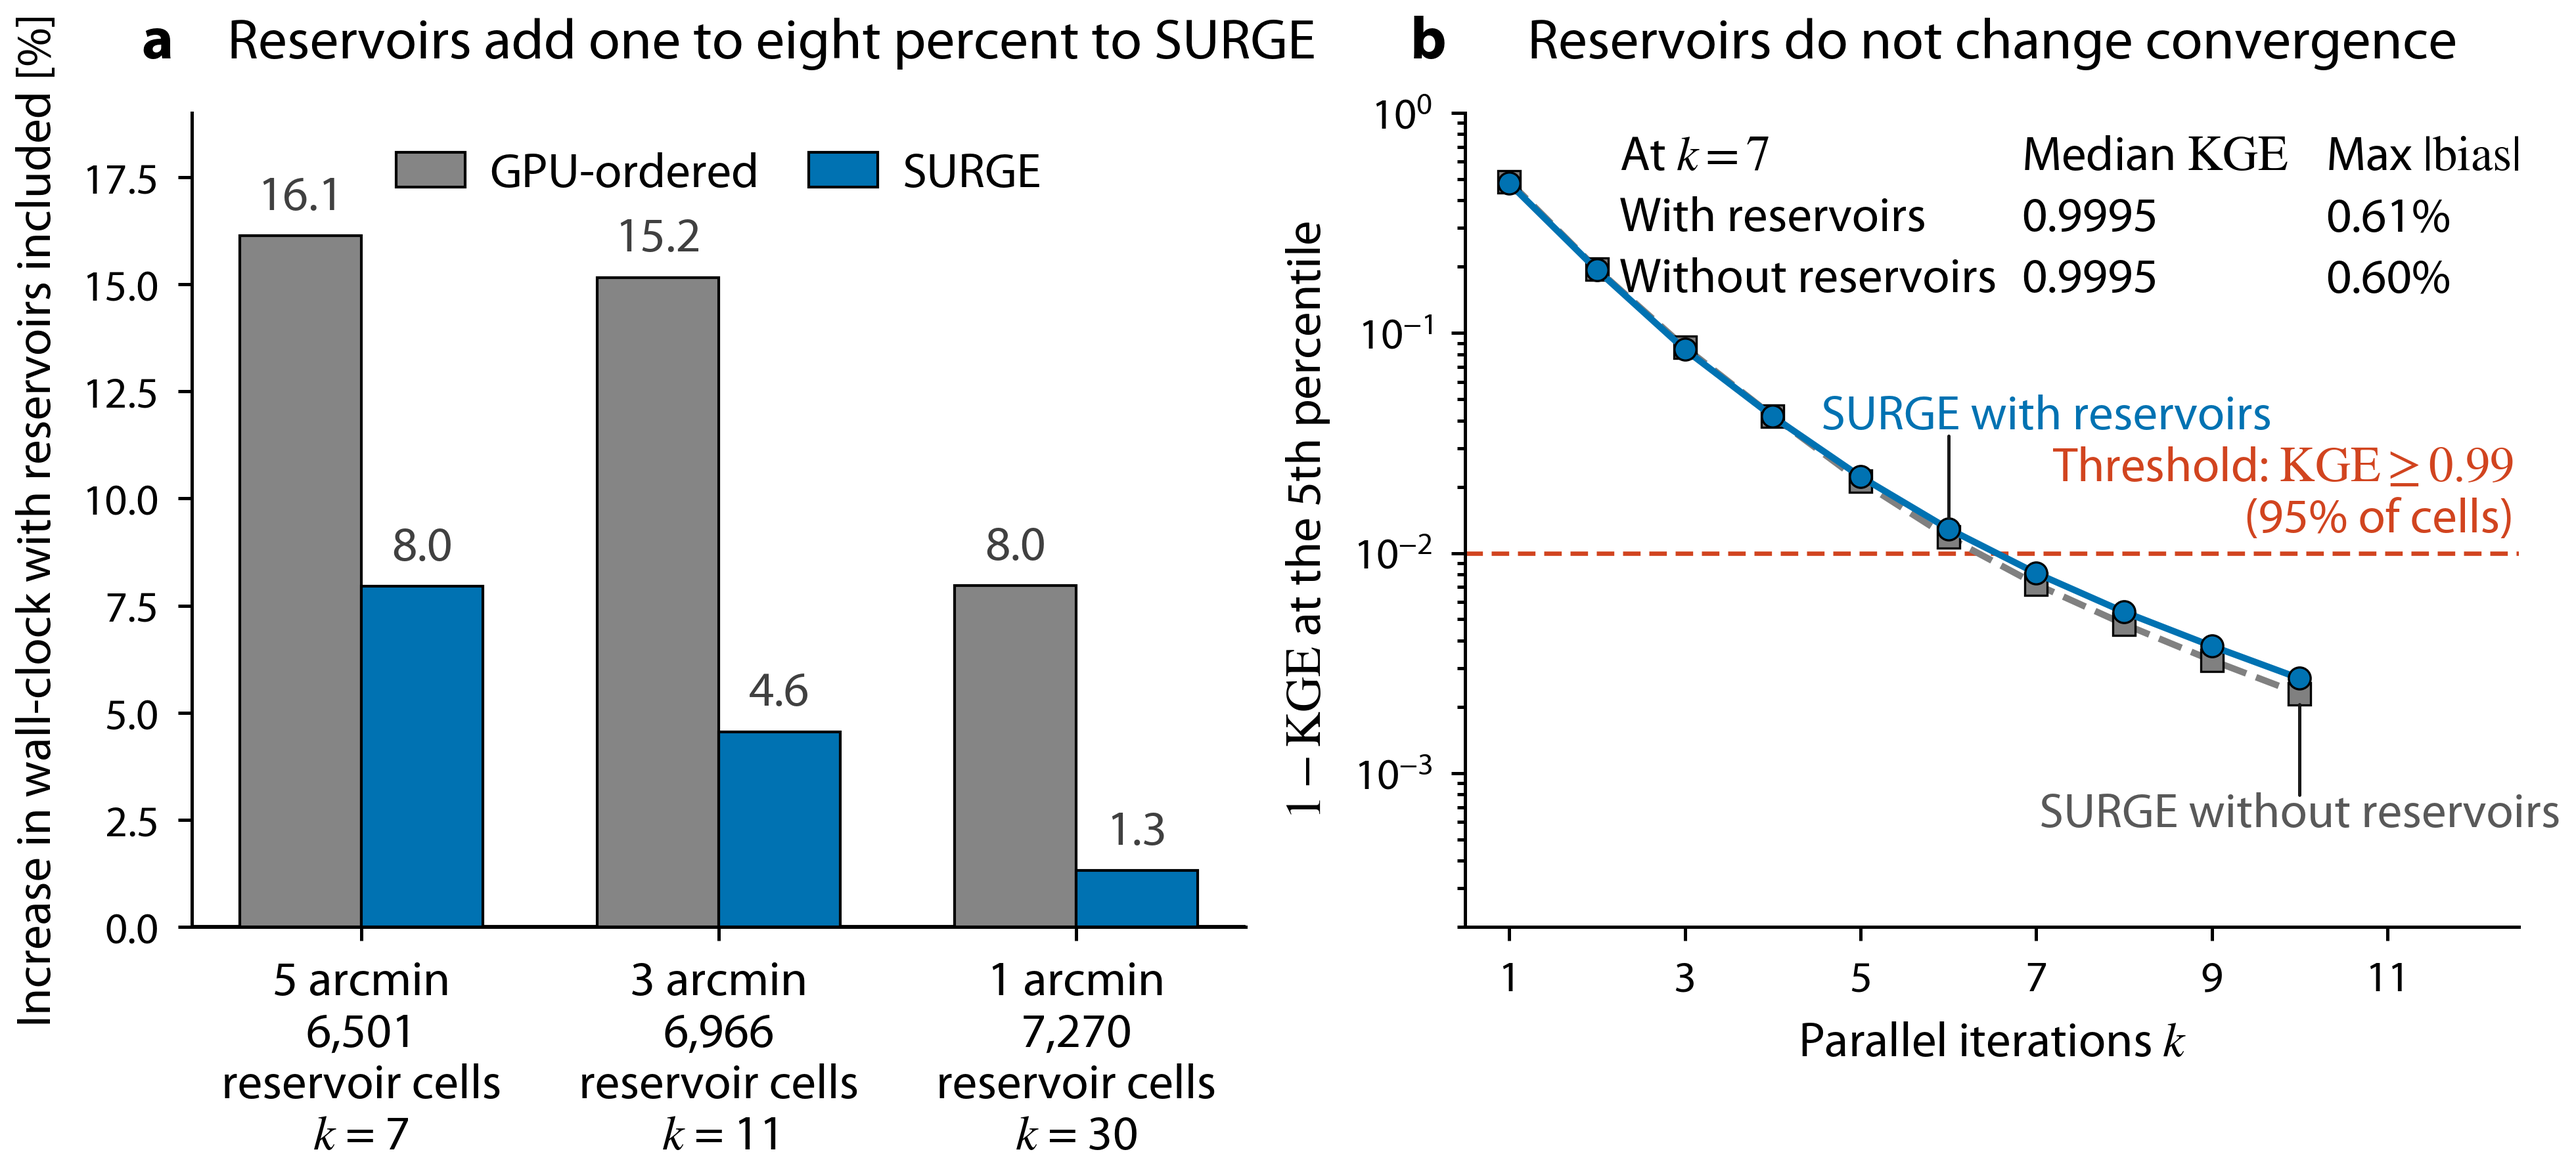
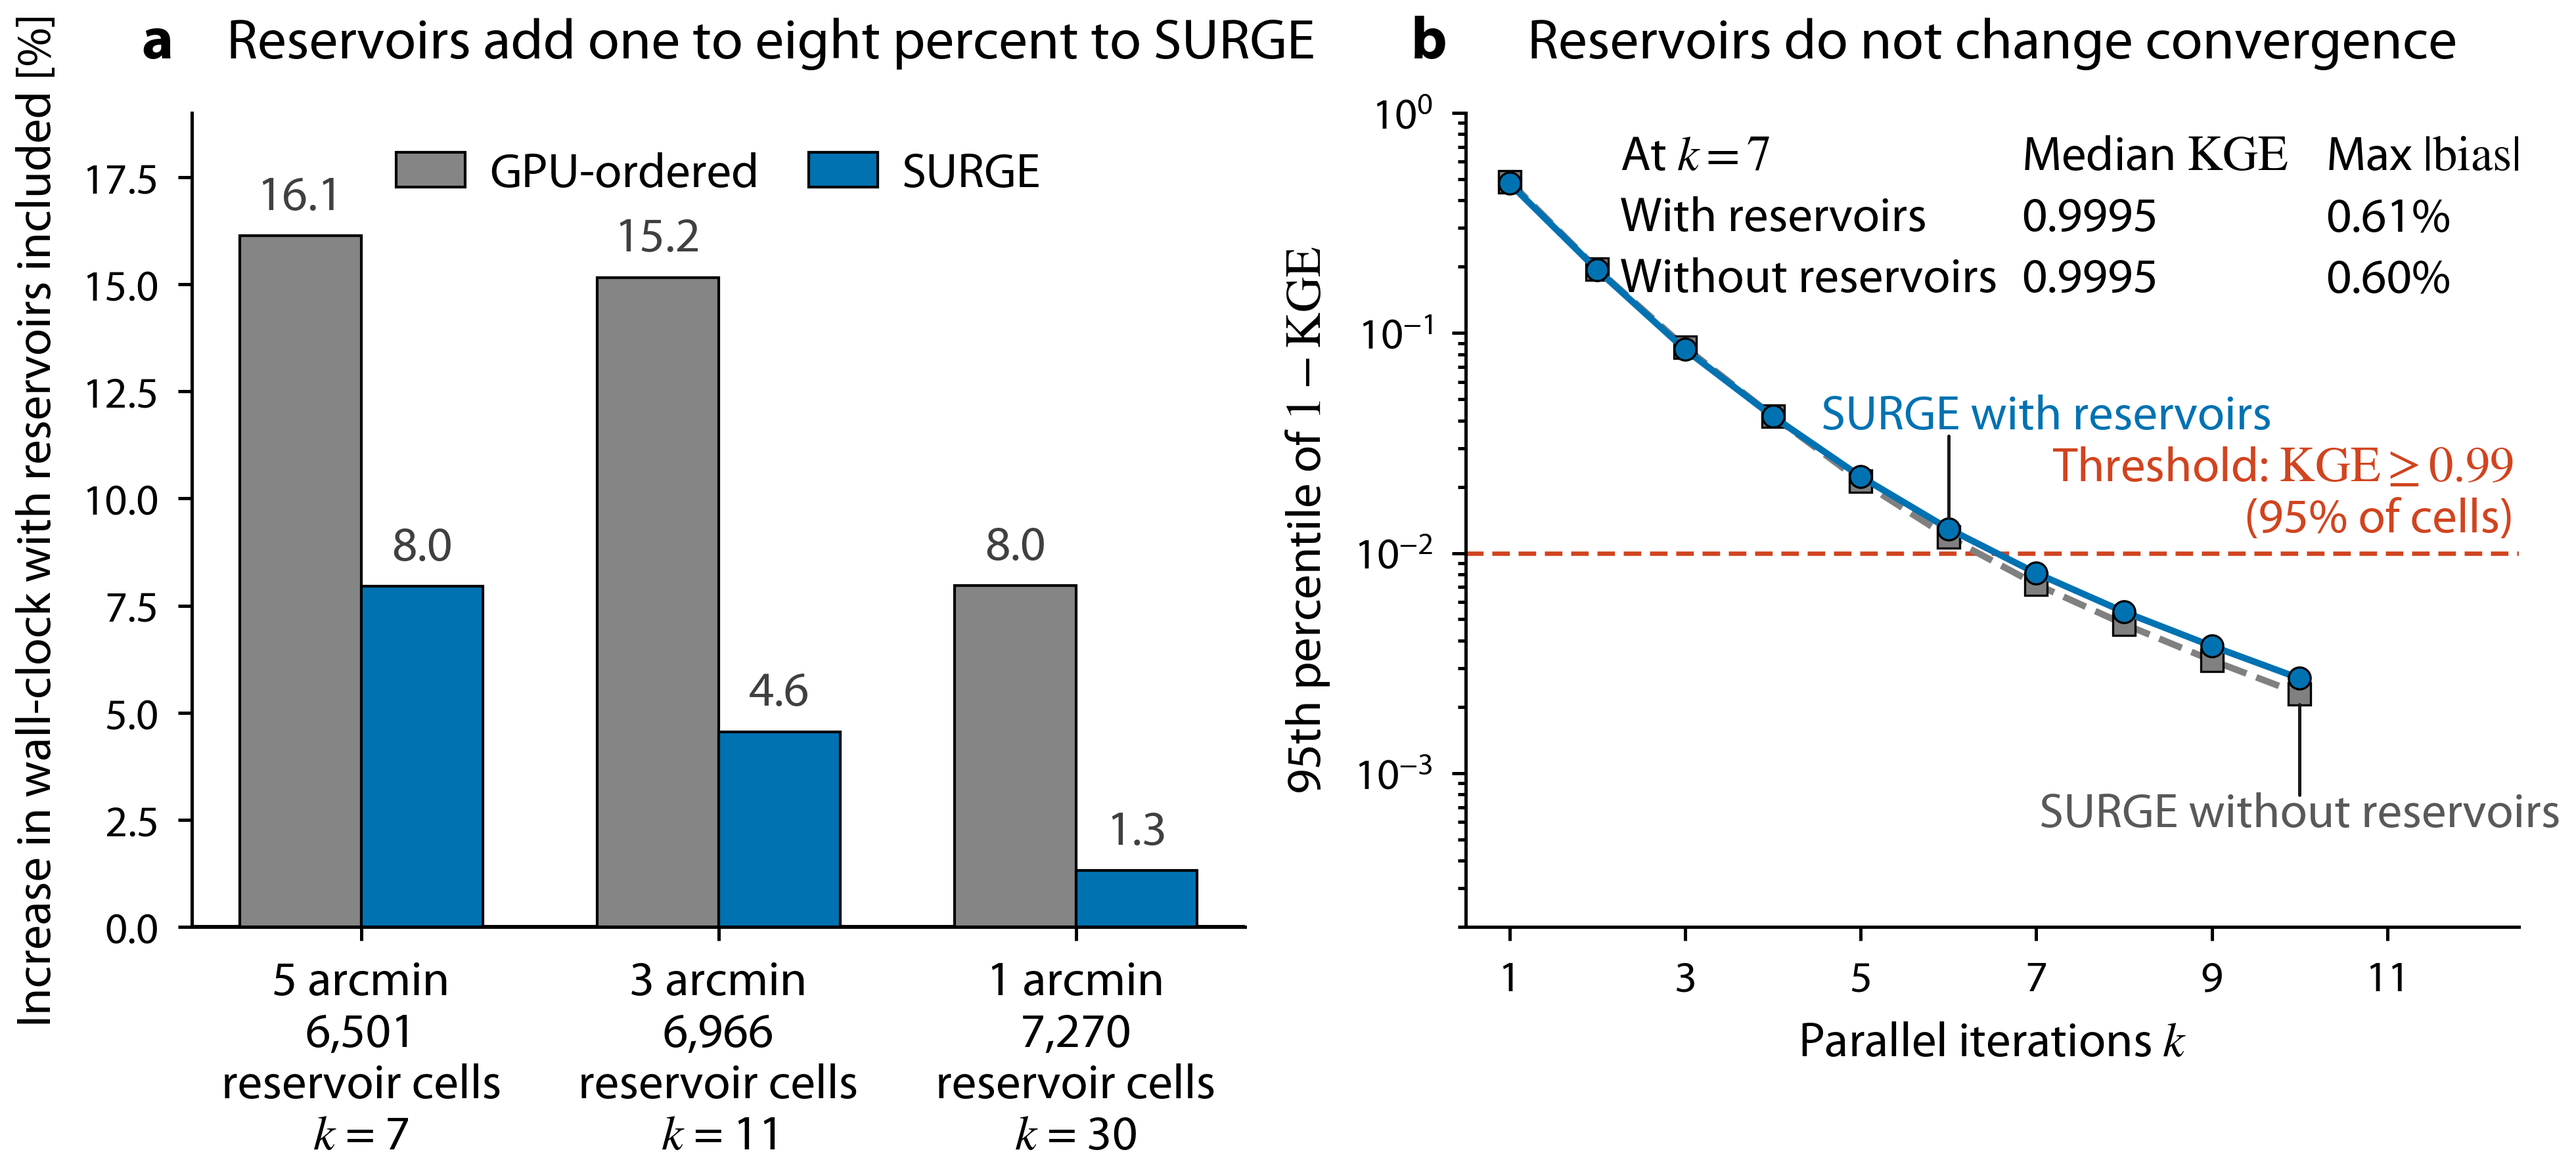
Update manuscript title and Figure 9b label

diff --git a/paper/figure_scripts/fig_reservoir.py b/paper/figure_scripts/fig_reservoir.py
@@ -1,6 +1,6 @@
 """Figure 9 of the manuscript: the full GRanD dam set (7,320 dams, 6,501 to 7,270 reservoir cells).
 (a) wall-clock added by the dams to GPU-ordered and SURGE at 5, 3 and 1 arcmin, with and without
-the dams timed in the same job on one A100; (b) 1 - KGE at the 5th percentile against the iteration
+the dams timed in the same job on one A100; (b) the 95th percentile of 1 - KGE against the iteration
 count on the 5 arcmin network, with and without the dams.
 Data: figure_data/reservoir_timing.json, reservoir_convergence.json, reservoir_k7_scores.json."""
 import os, sys, json, numpy as np
@@ -56,7 +56,7 @@ ax1.grid(False, which='both')
 
 # (b) the criterion of section 4.1 with and without the dams, over the 2010 year
 CV = json.load(open(os.path.join(DATA, 'reservoir_convergence.json')))
-THRESH = 0.01                                  # 1 - KGE at the 5th percentile, the threshold
+THRESH = 0.01                                  # 95th percentile of 1 - KGE, the threshold
 for key, col, mk, lab, off, ha_ in (('without_dams', '0.5', 's--', 'SURGE without reservoirs', (-9, -31), 'right'),
                                     ('with_dams', '#0072B2', 'o-', 'SURGE with reservoirs',
                                      (-9, -17), 'right')):
@@ -94,7 +94,7 @@ for i, row in enumerate(_rows):
 print('table columns at', np.round(_xs, 3))
 ax2.set_yscale('log')
 ax2.set_xlabel('Parallel iterations $k$')
-ax2.set_ylabel('$1 - \\mathrm{KGE}$ at the 5th percentile')
+ax2.set_ylabel('95th percentile of $1 - \\mathrm{KGE}$')
 ax2.set_xticks([1, 3, 5, 7, 9, 11]); ax2.set_xlim(0.5, 12.5); ax2.set_ylim(2e-4, 1.0)
 panel_label(ax2, 'b', pad_pt=TPAD).set_fontsize(FS_LETTER); ax2.set_title('Reservoirs do not change convergence', loc='center', pad=TPAD)
 # each curve is named beside it by a leader, in place of a key

diff --git a/surge/__init__.py b/surge/__init__.py
@@ -12,7 +12,7 @@ Two GPU schemes:
   * TorchRouter.substep_ordered  -- one topological level at a time, which
                                     returns the serial solution
 
-See the accompanying paper: "SURGE: parallel kinematic wave river routing on GPUs".
+See the accompanying paper: "SURGE: GPU-parallel river routing with the implicit kinematic wave".
 """
 from .network import RoutingNetwork
 from .kinematic_torch import TorchRouter

diff --git a/paper/README.md b/paper/README.md
@@ -1,7 +1,7 @@
 # Paper figures
 
-Reproducible figures for the manuscript *"SURGE: parallel kinematic wave river routing
-on GPUs"*. Every figure is redrawn by one script that reads only the
+Reproducible figures for the manuscript *"SURGE: GPU-parallel river routing with the implicit
+kinematic wave"*. Every figure is redrawn by one script that reads only the
 compact data committed here, so no raw model output and no GPU is needed to
 reproduce them.
 

diff --git a/README.md b/README.md
@@ -47,7 +47,7 @@ This repository accompanies the manuscript:
 
 > Zhanwei Liu, Jiangchao Qiu, Peter Burek, Ming Pan, Kei Yoshimura, Hyungjun Kim
 > and Xiaogang He.
-> **SURGE: parallel kinematic wave river routing on GPUs** (in preparation).
+> **SURGE: GPU-parallel river routing with the implicit kinematic wave** (submitted).
 
 ---
 
